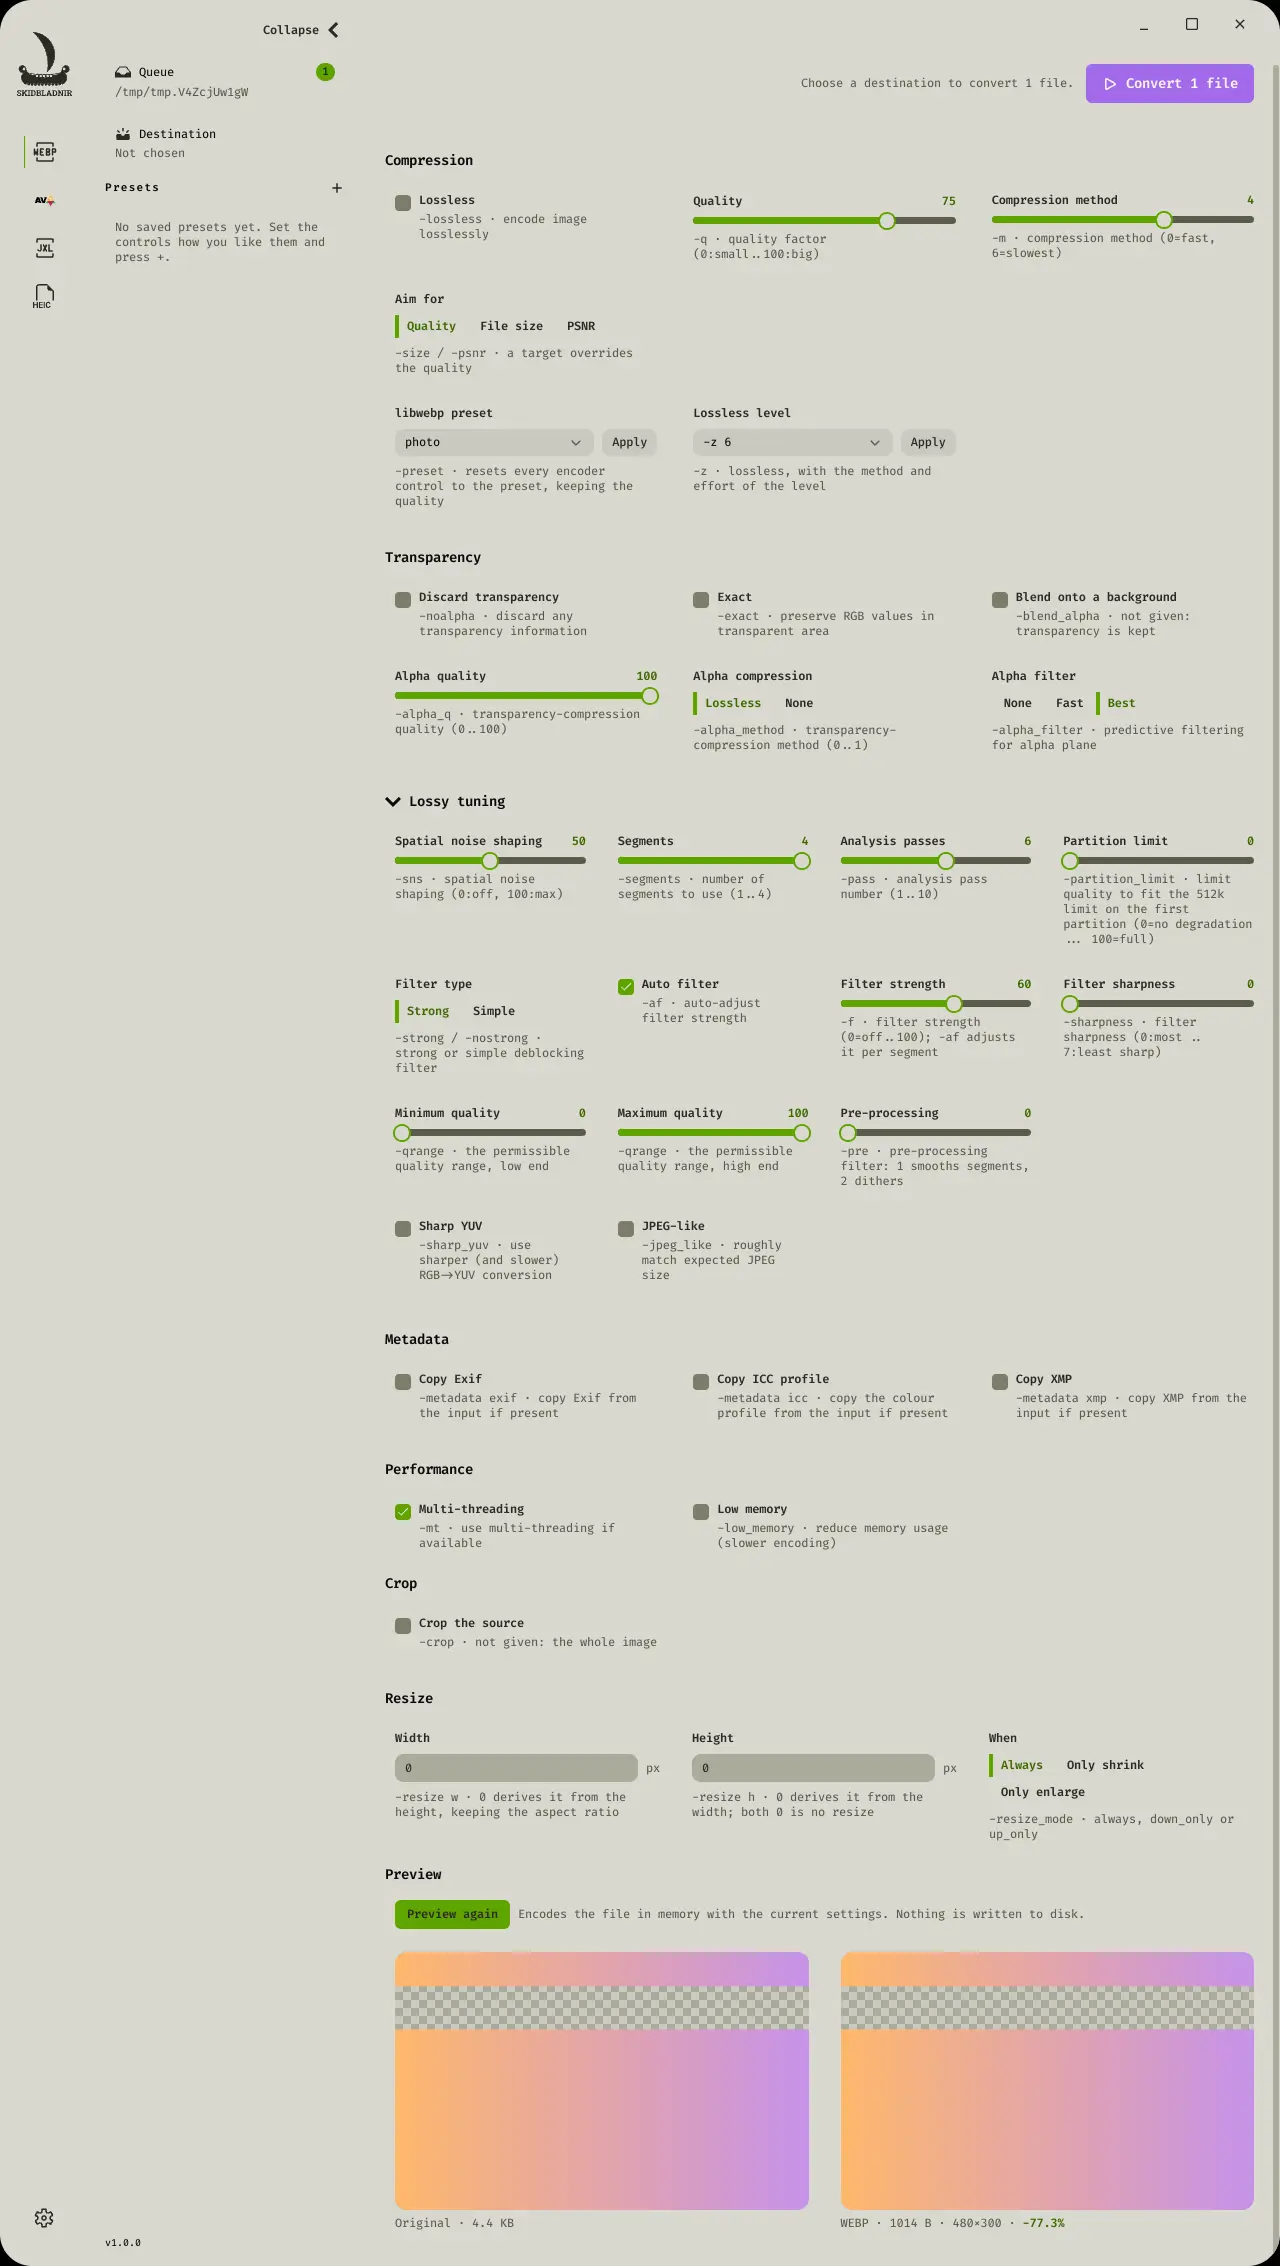
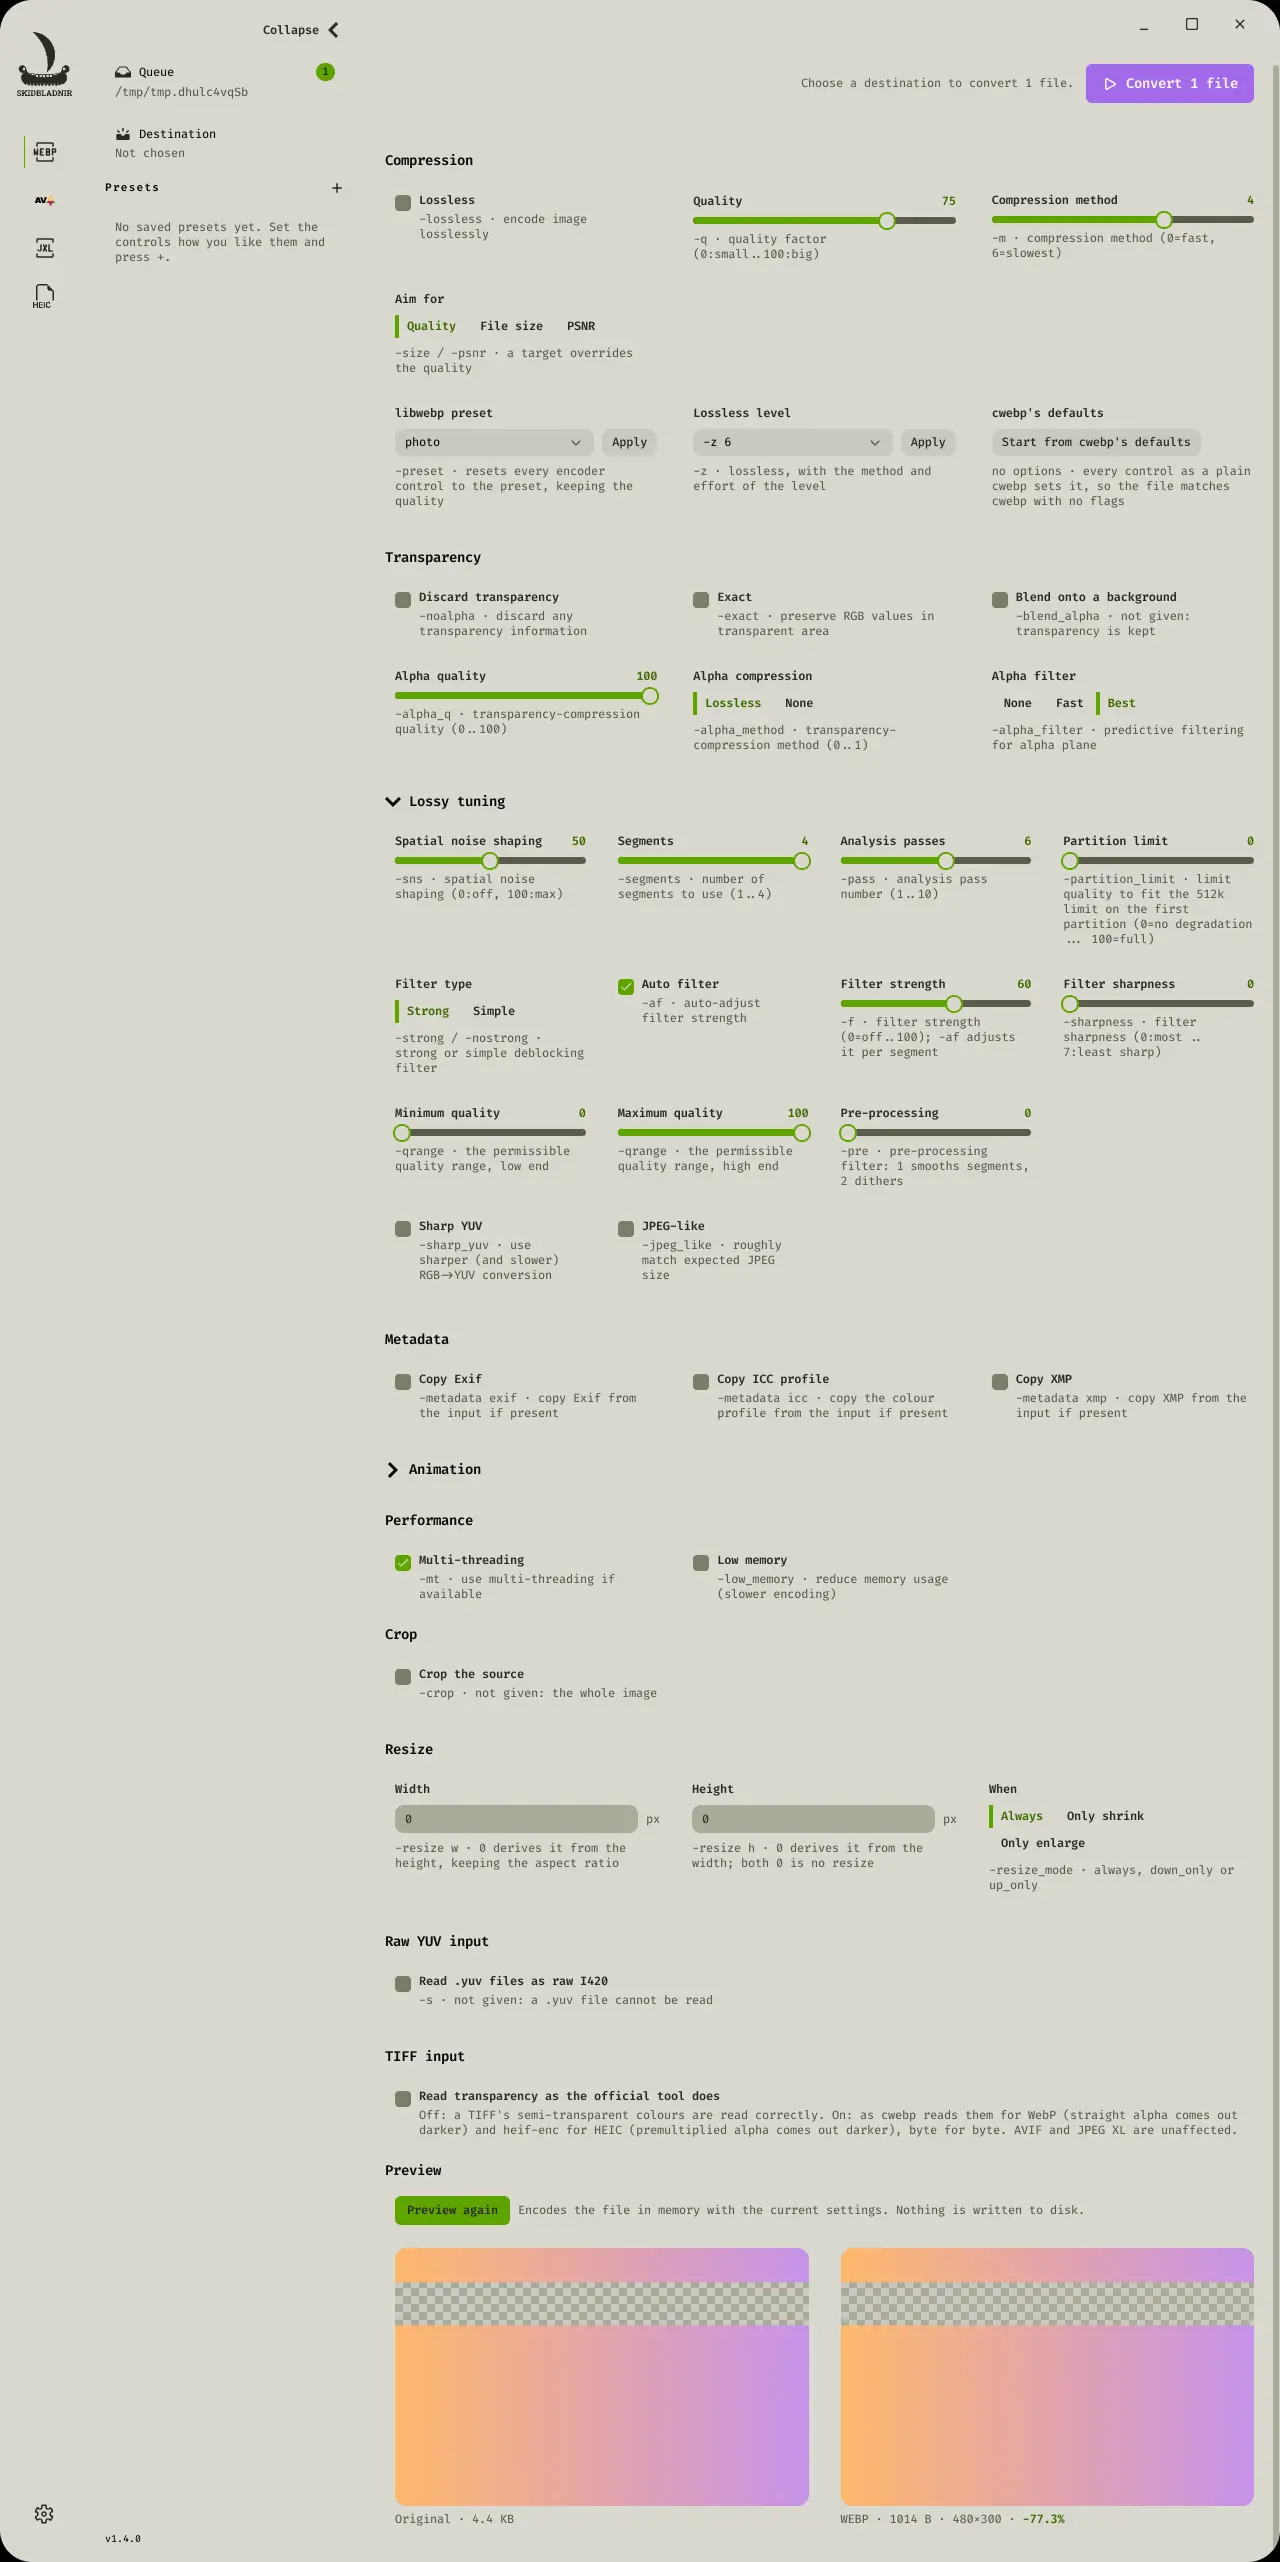
docs: the README screenshots are the 1.4.0 window
CI's captures from the window job of run 37092442114 (this branch, 1.4.0),
encoded at the app's default settings by the gpui window itself, which wrote
the same bytes as cwebp -q 75 -alpha_filter best -m 4 -af -pass 6 -mt. The
WebP one now shows the Raw YUV input panel; its alt text says so.

diff --git a/README.md b/README.md
@@ -34,7 +34,7 @@ with the exceptions listed under [What "every option" means](#what-every-option-
 <details>
 <summary>With WebP selected: the whole panel, and a preview</summary>
 
-![The Skidbladnir window with WebP selected: the format rail, the queue, destination and presets sidebar, and every cwebp option as a control labelled with its flag — compression, targets, presets and lossless levels, transparency, lossy tuning, metadata, performance, crop and resize — with a preview of the result beside the original](resources/images/screenshot.webp)
+![The Skidbladnir window with WebP selected: the format rail, the queue, destination and presets sidebar, and every cwebp option as a control labelled with its flag — compression, targets, presets and lossless levels, transparency, lossy tuning, metadata, animation, performance, crop and resize, raw YUV and TIFF input — with a preview of the result beside the original](resources/images/screenshot.webp)
 
 *WebP selected, with a file previewed: every `cwebp` option, each labelled with its flag.*
 
